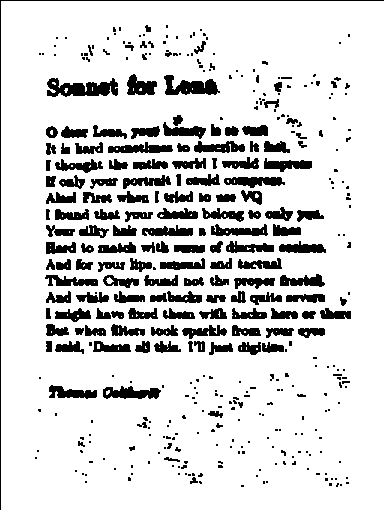
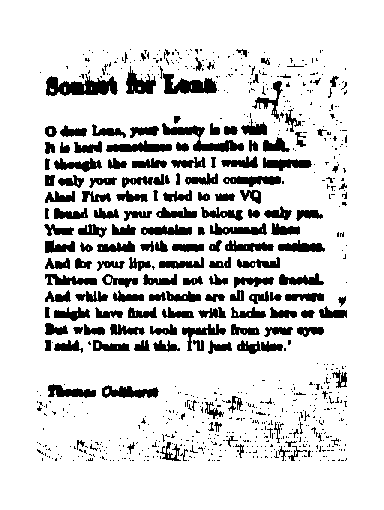
Some more changes

diff --git a/HW1/src/mylib/morph_operations.py b/HW1/src/mylib/morph_operations.py
@@ -17,11 +17,14 @@ def dilation(source_image, struct_el):
 
     out_img = np.zeros(source_image.shape).astype(np.uint8)
 
+    (x, y) = struct_el.shape
+    s_origin = struct_el[int(x / 2), int(y / 2)]
+
     # Main loop for iterating source image
     for i in range(0, len(source_image)):
         for j in range(0, len(source_image[i])):
             if check_notation(i, j, source_image, struct_el, 0) is True:
-                out_img[i, j] = 255
+                out_img[i, j] = s_origin
 
     return out_img
 
@@ -33,11 +36,14 @@ def erosion(source_image, struct_el):
 
     out_img = np.zeros(source_image.shape).astype(np.uint8)
 
+    (x, y) = struct_el.shape
+    s_origin = struct_el[int(x / 2), int(y / 2)]
+
     # Main loop for iterating source image
     for i in range(0, len(source_image)):
         for j in range(0, len(source_image[i])):
             if check_notation(i, j, source_image, struct_el, 1) is True:
-                out_img[i, j] = 255
+                out_img[i, j] = s_origin
 
     return out_img
 
@@ -79,16 +85,16 @@ def check_notation(i, j, source_image, struct_el, type = 0):
     result = False
 
     if type == 0:
+        # Check commonality by set intersection
+        a = set(sliced_part.flatten())
+        b = set(struct_el.flatten())
+
+        result = len(a.intersection(b)) >= 1
+    else:
         # Check commonality by list intersection
         a = list(sliced_part.flatten())
         b = list(struct_el.flatten())
 
         result = (a == b)
-    else:
-        # Check commonality by set intersection
-        a = set(sliced_part.flatten())
-        b = set(struct_el.flatten())
-
-        result = len(b.intersection(a)) >= 1
 
     return result

diff --git a/HW1/src/question1.py b/HW1/src/question1.py
@@ -6,10 +6,10 @@ from mylib.threshold import threshold
 from mylib.morph_operations import dilation, erosion
 
 ######## TEST ########
-src_img = load_img_2D('test0.png')
+src_img = load_img_2D('test2.png')
 threshold(src_img, 100)
 
-struct_el = np.ones((5, 5)).astype(np.uint8) * 255
+struct_el = np.ones((3, 3)).astype(np.uint8) * 255
 
 dilated_img = dilation(src_img, struct_el)
 eroded_img = erosion(src_img, struct_el)
@@ -17,3 +17,22 @@ eroded_img = erosion(src_img, struct_el)
 # Output
 save_img_from_array(dilated_img, out_name = 'dilated_out_img.png')
 save_img_from_array(eroded_img, out_name = 'eroded_out_img.png')
+
+
+# temp = np.array([(0, 0, 0, 0, 0, 0, 0, 0),
+#                  (1, 1, 1, 1, 1, 1, 1, 0),
+#                  (0, 0, 0, 1, 1, 1, 1, 0),
+#                  (0, 0, 0, 1, 1, 1, 1, 0),
+#                  (0, 0, 1, 1, 1, 1, 1, 0),
+#                  (0, 0, 0, 1, 1, 1, 1, 0),
+#                  (0, 0, 1, 1, 0, 0, 0, 0),
+#                  (0, 0, 0, 0, 0, 0, 0, 0)
+#                 ]) * 255
+
+# str_el = np.ones((3, 3)) * 255
+
+# pprint(temp)
+# print("\n")
+# pprint(dilation(temp, str_el))
+# print("\n")
+# pprint(erosion(temp, str_el))

diff --git a/HW1/src/question2.py b/HW1/src/question2.py
@@ -8,10 +8,10 @@ from mylib.threshold import adaptive_threshold
 ######## QUESTION 2 ########
 src_img = load_img_2D('sonnet.png')
 
-thr_img = adaptive_threshold(src_img, (50, 70), 1)
+thr_img = adaptive_threshold(src_img, (100, 75), 1)
 
-strc_el = np.ones((2, 2)).astype(np.uint8) * 255
-
+strc_el = np.ones((3, 1)).astype(np.uint8) * 255
+#
 out_img = erosion(thr_img, strc_el)
 out_img = dilation(out_img, strc_el)
 
